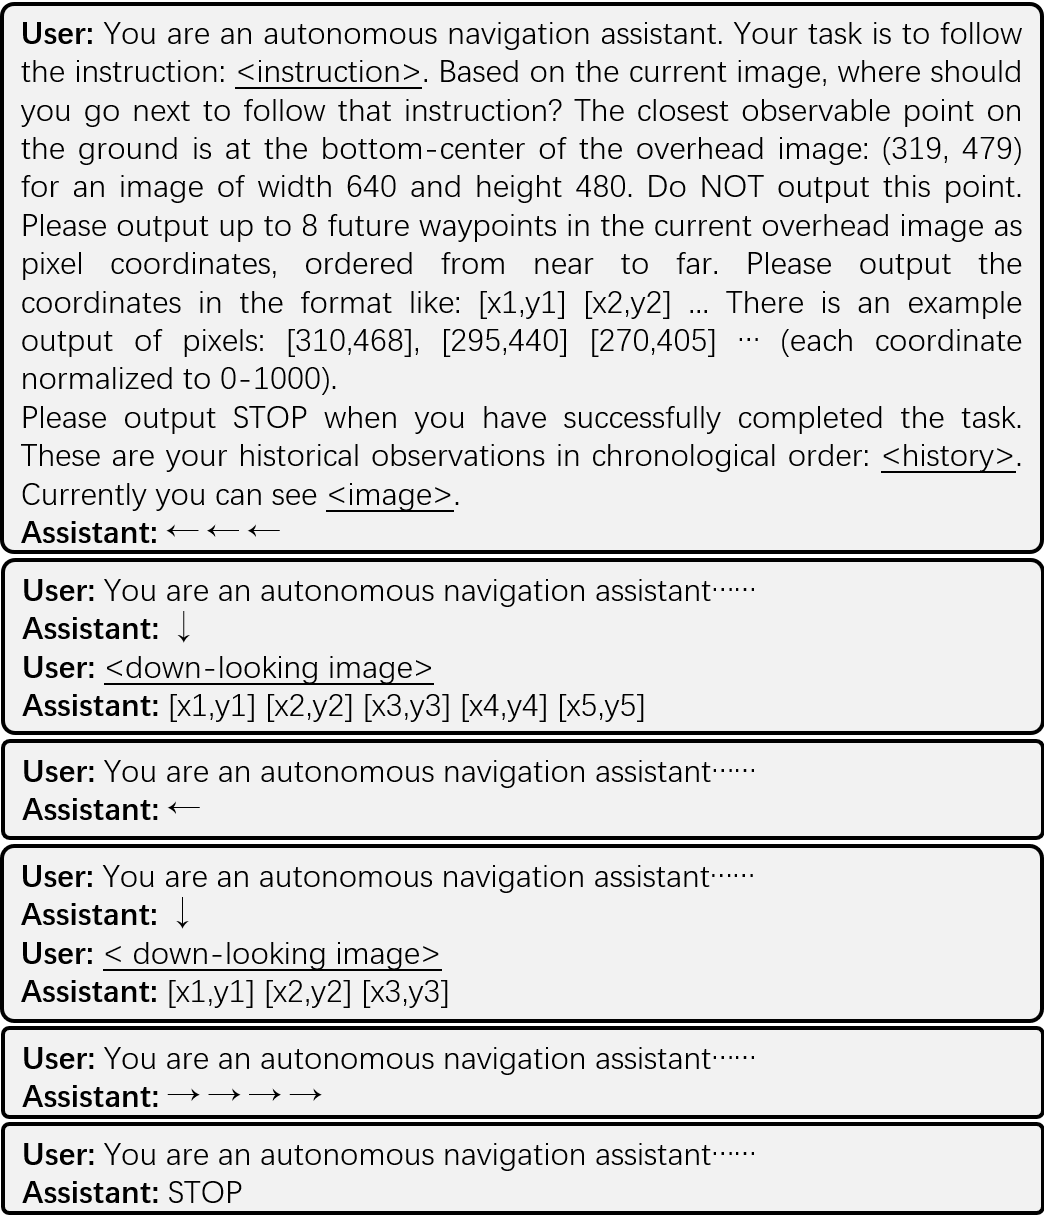
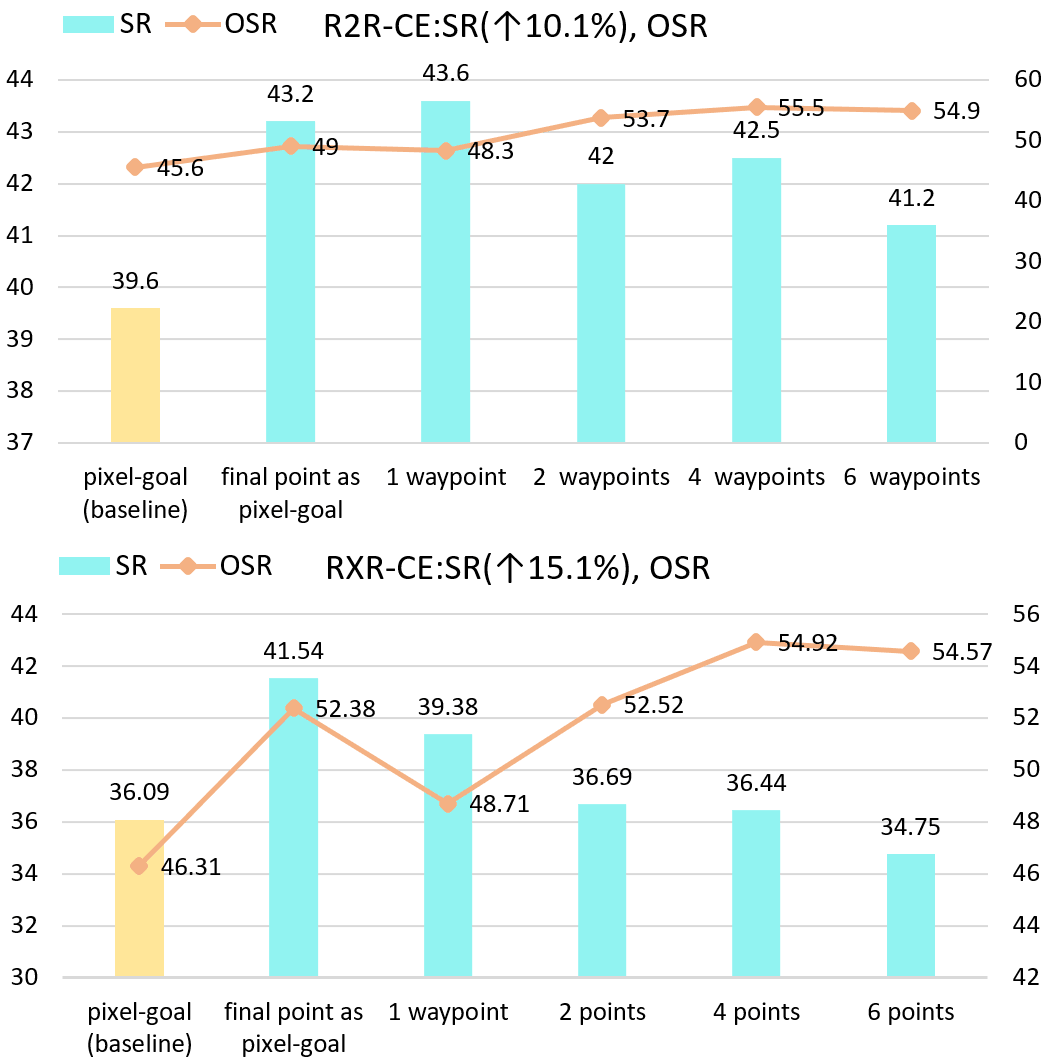
update

diff --git a/index.html b/index.html
@@ -393,6 +393,13 @@ Rather than incorporating 3D geometric information (which VLMs rarely encounter 
         Comparison of pixel-goal (InternVLA-N1) and Traj-VLN under varying numbers of execution steps per trajectory prediction. The horizontal axis denotes the number of waypoints along a trajectory to be executed. "Final pixel as pixel-goal" refers to treating the final waypoint of the predicted trajectory as the pixel goal for evaluating Traj-VLN using the same evaluation protocol as pixel-goal. The results are obtained with the same models as those reported in Table II.
       </h2>
     </div>
+      <div class="item">
+        <!-- Your image here -->
+        <img src="static/images/Figure5.png" alt="Third research result visualization" loading="lazy"/>
+        <h2 class="subtitle has-text-centered">
+         Qualitative results of Traj-VLN in simulation and real-world environments. The Unitree-G1 robot is equipped with two cameras: a downward camera on the head for down-looking views and a forward camera positioned at the neck.
+       </h2>
+     </div>
   </div>
 </div>
 </div>
